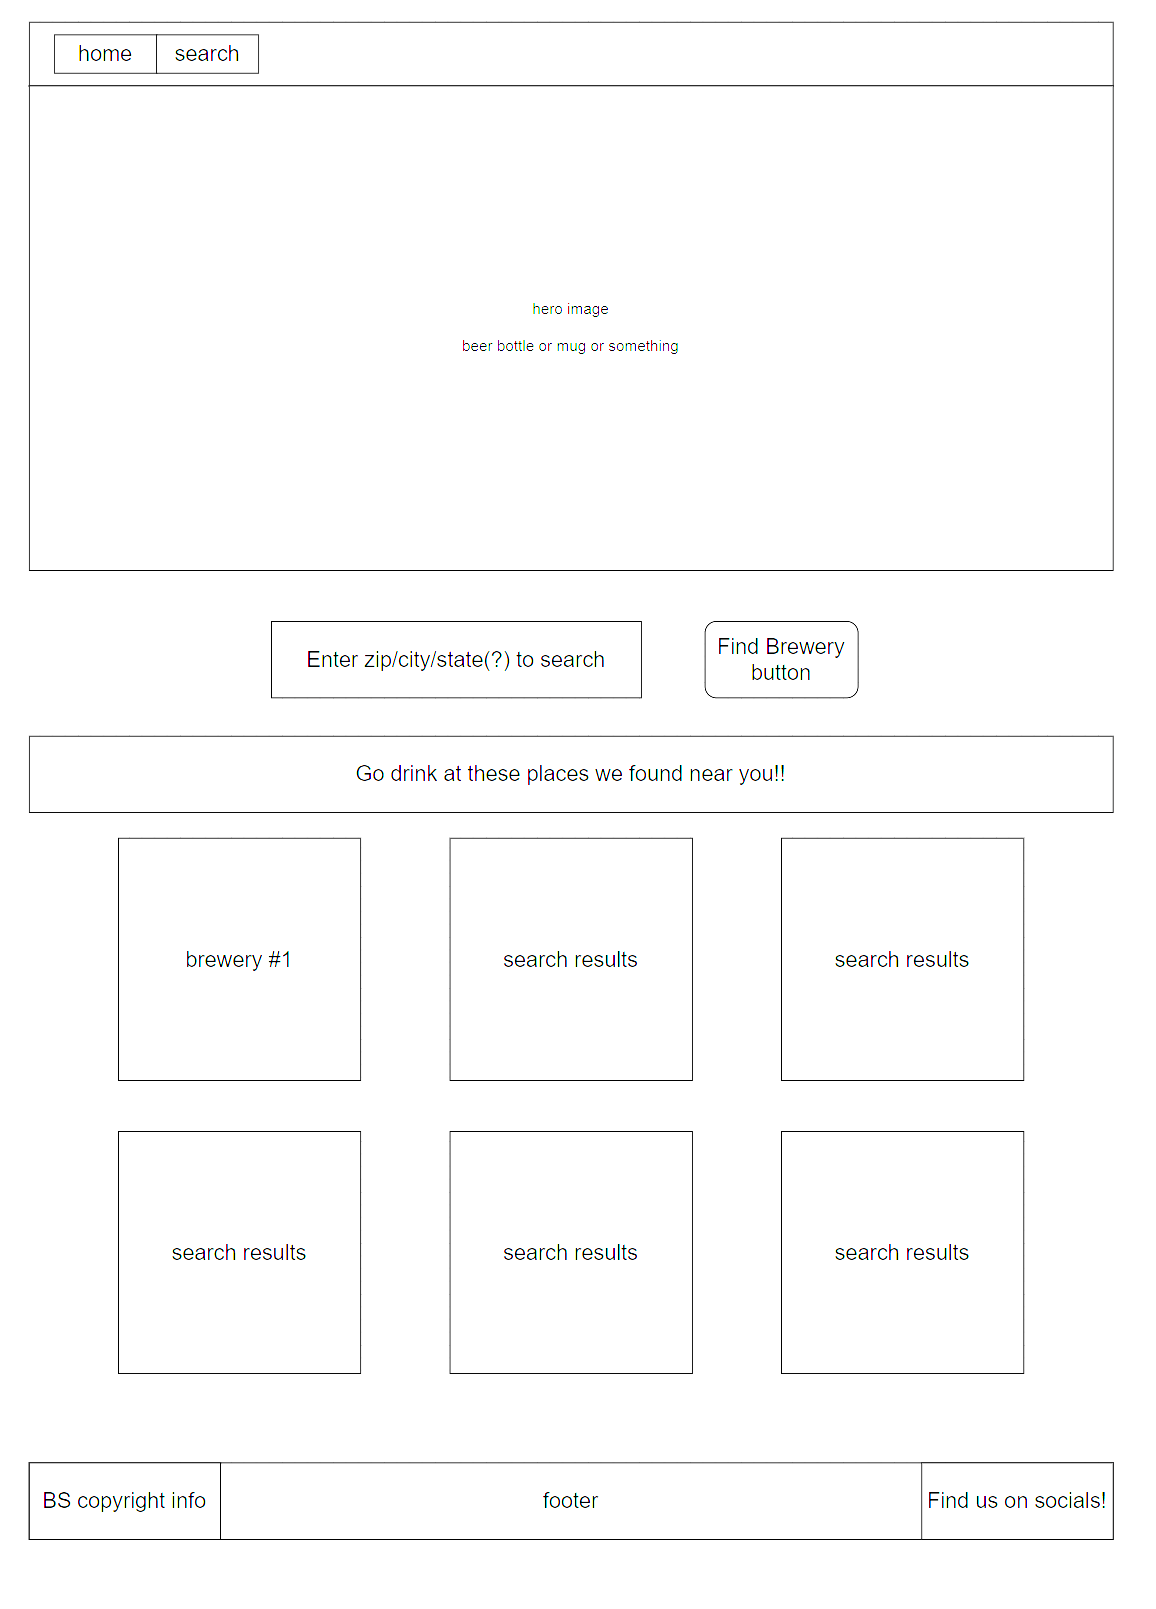
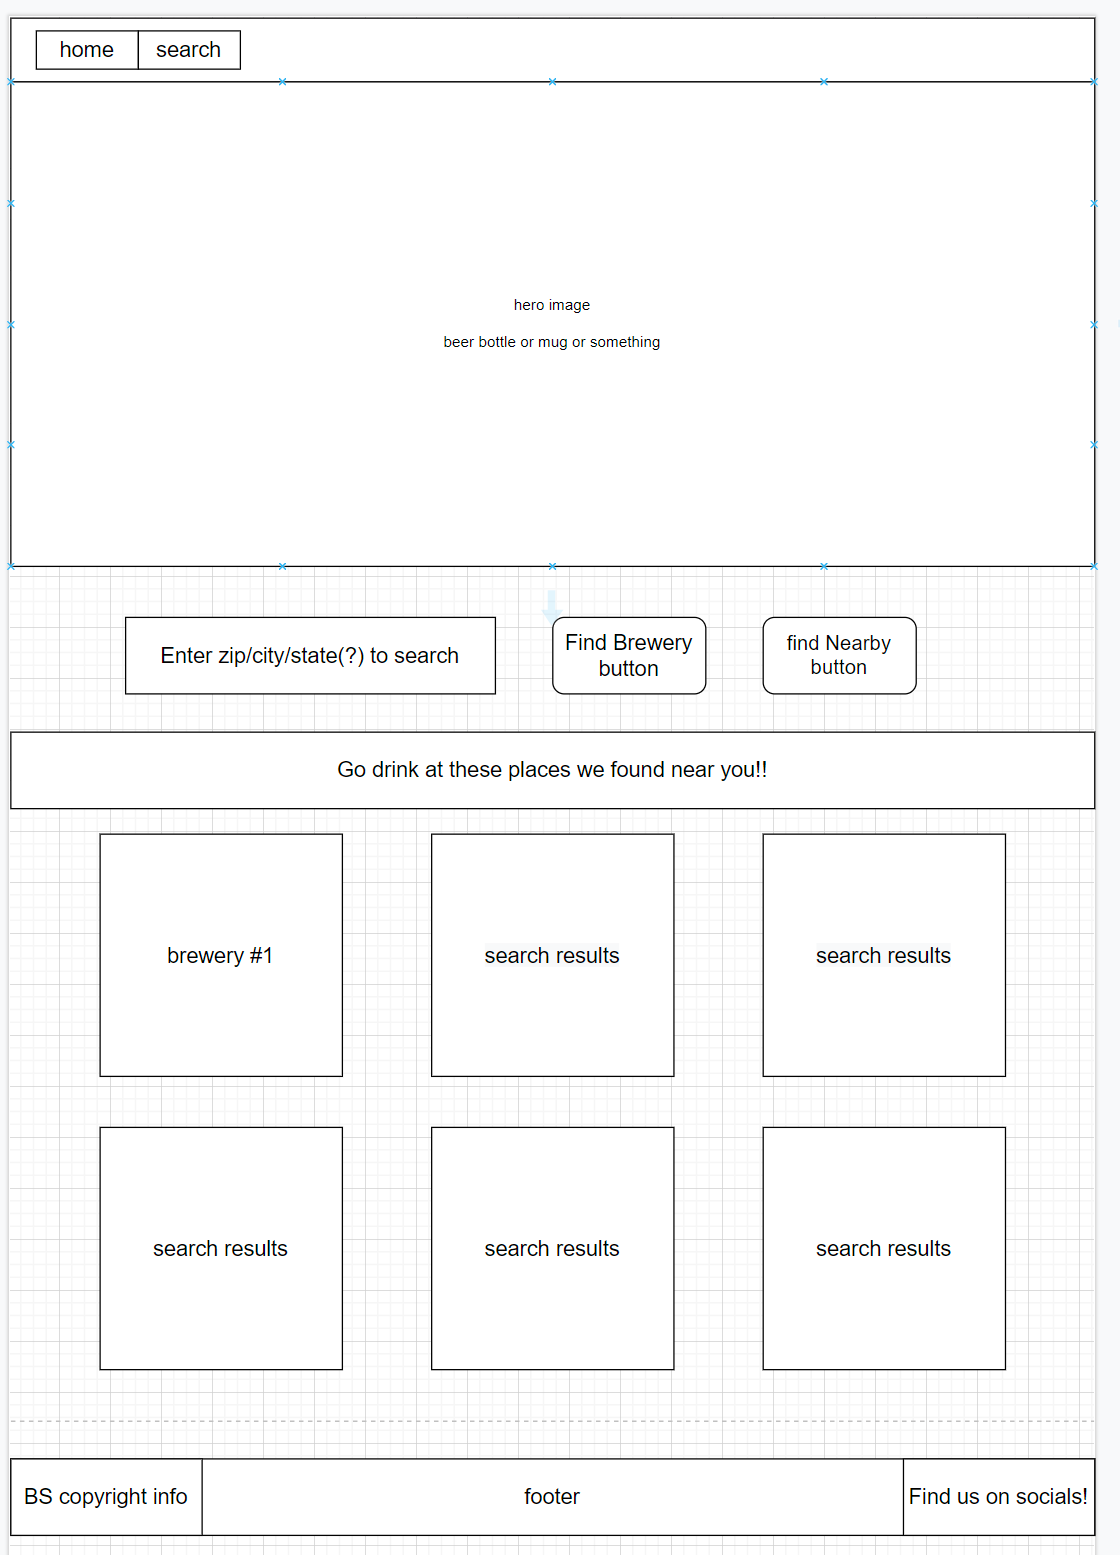
updated wireframe and html

diff --git a/index.html b/index.html
@@ -1,0 +1,18 @@
+<!DOCTYPE html>
+<html>
+    <head>
+       <title>FromTheTap</title> 
+    </head>
+    <body>
+<!--Add nav bar with home and search-->
+
+<!--Add hero image and form?-->
+
+<!--Add div to hold search dropdown and button-->
+
+<!--Add div for search results on cards-->
+
+<!--Add footer with social info and copyright-->
+
+    </body>
+</html>
